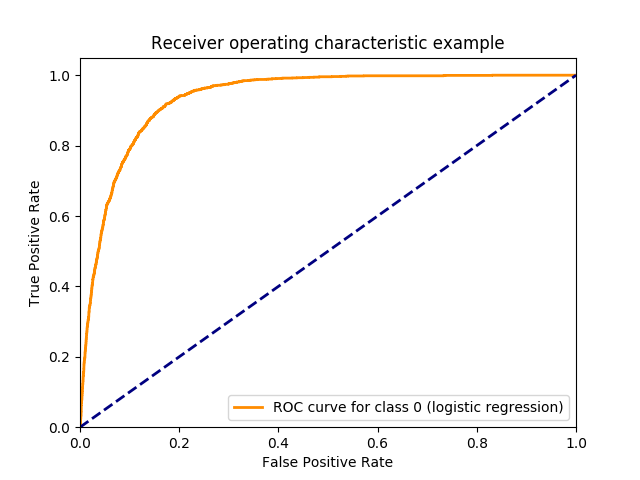
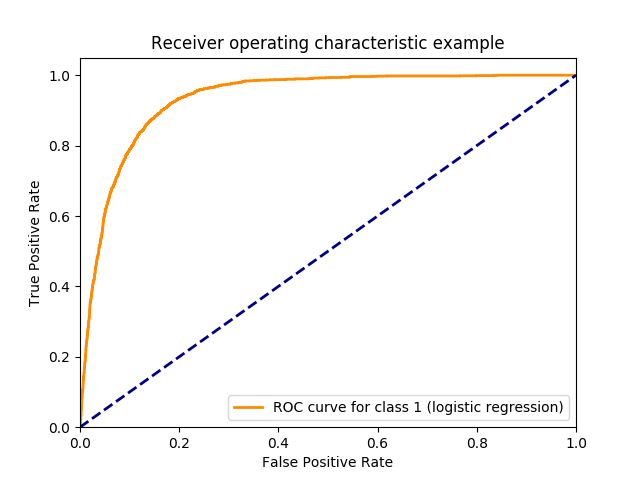
add graph

diff --git a/milestone_1/train.py b/milestone_1/train.py
@@ -83,7 +83,7 @@ def trainCla(features, label, out_graph, header_ele,label_names):
 	# plot 
 	plt.figure()
 	lw = 2
-	plt.plot(fpr_log,tpr_log, color = 'darkorange', lw=lw, label='ROC curve for class 0 (logistic regression)' )
+	plt.plot(fpr_log,tpr_log, color = 'darkorange', lw=lw, label='ROC curve for class 1 (logistic regression)' )
 	plt.plot([0, 1], [0, 1], color='navy', lw=lw, linestyle='--')
 	plt.xlim([0.0, 1.0])
 	plt.ylim([0.0, 1.05])
@@ -133,7 +133,7 @@ def trainCla(features, label, out_graph, header_ele,label_names):
 	# plot 
 	plt.figure()
 	lw = 2
-	plt.plot(fpr_tree,tpr_tree, color = 'darkorange', lw=lw, label='ROC curve for class 0 (tree)')
+	plt.plot(fpr_tree,tpr_tree, color = 'darkorange', lw=lw, label='ROC curve for class 1 (tree)')
 	plt.plot([0, 1], [0, 1], color='navy', lw=lw, linestyle='--')
 	plt.xlim([0.0, 1.0])
 	plt.ylim([0.0, 1.05])
